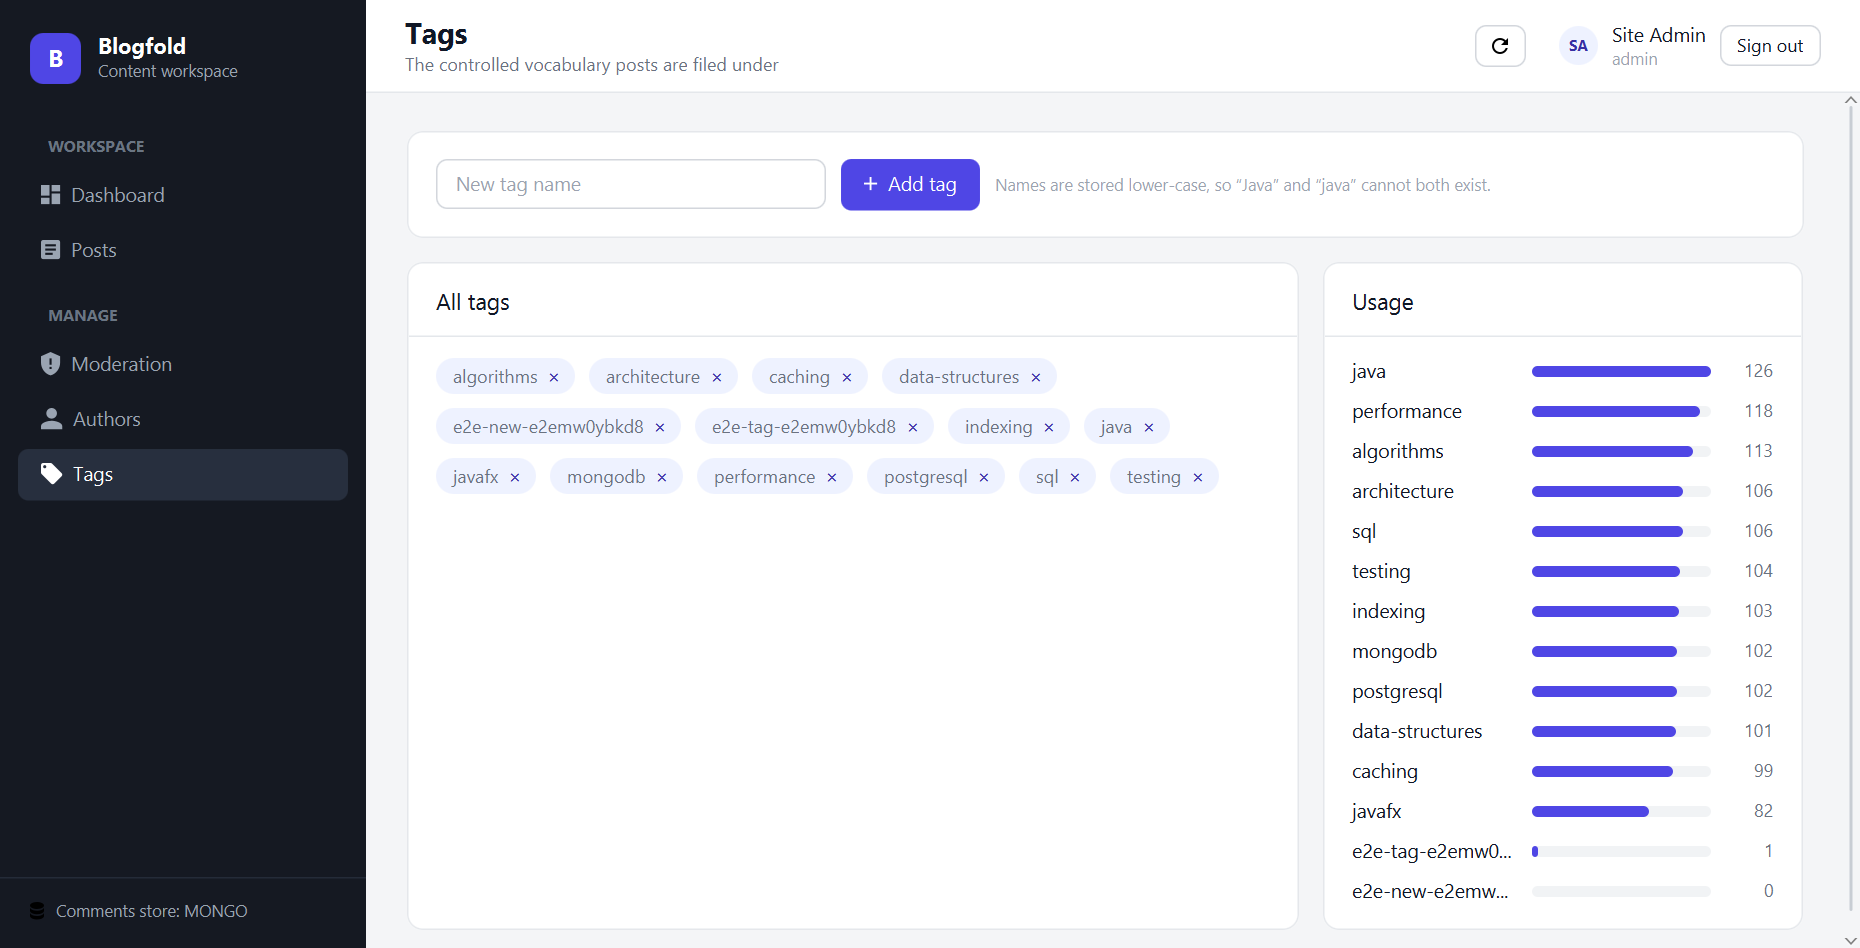
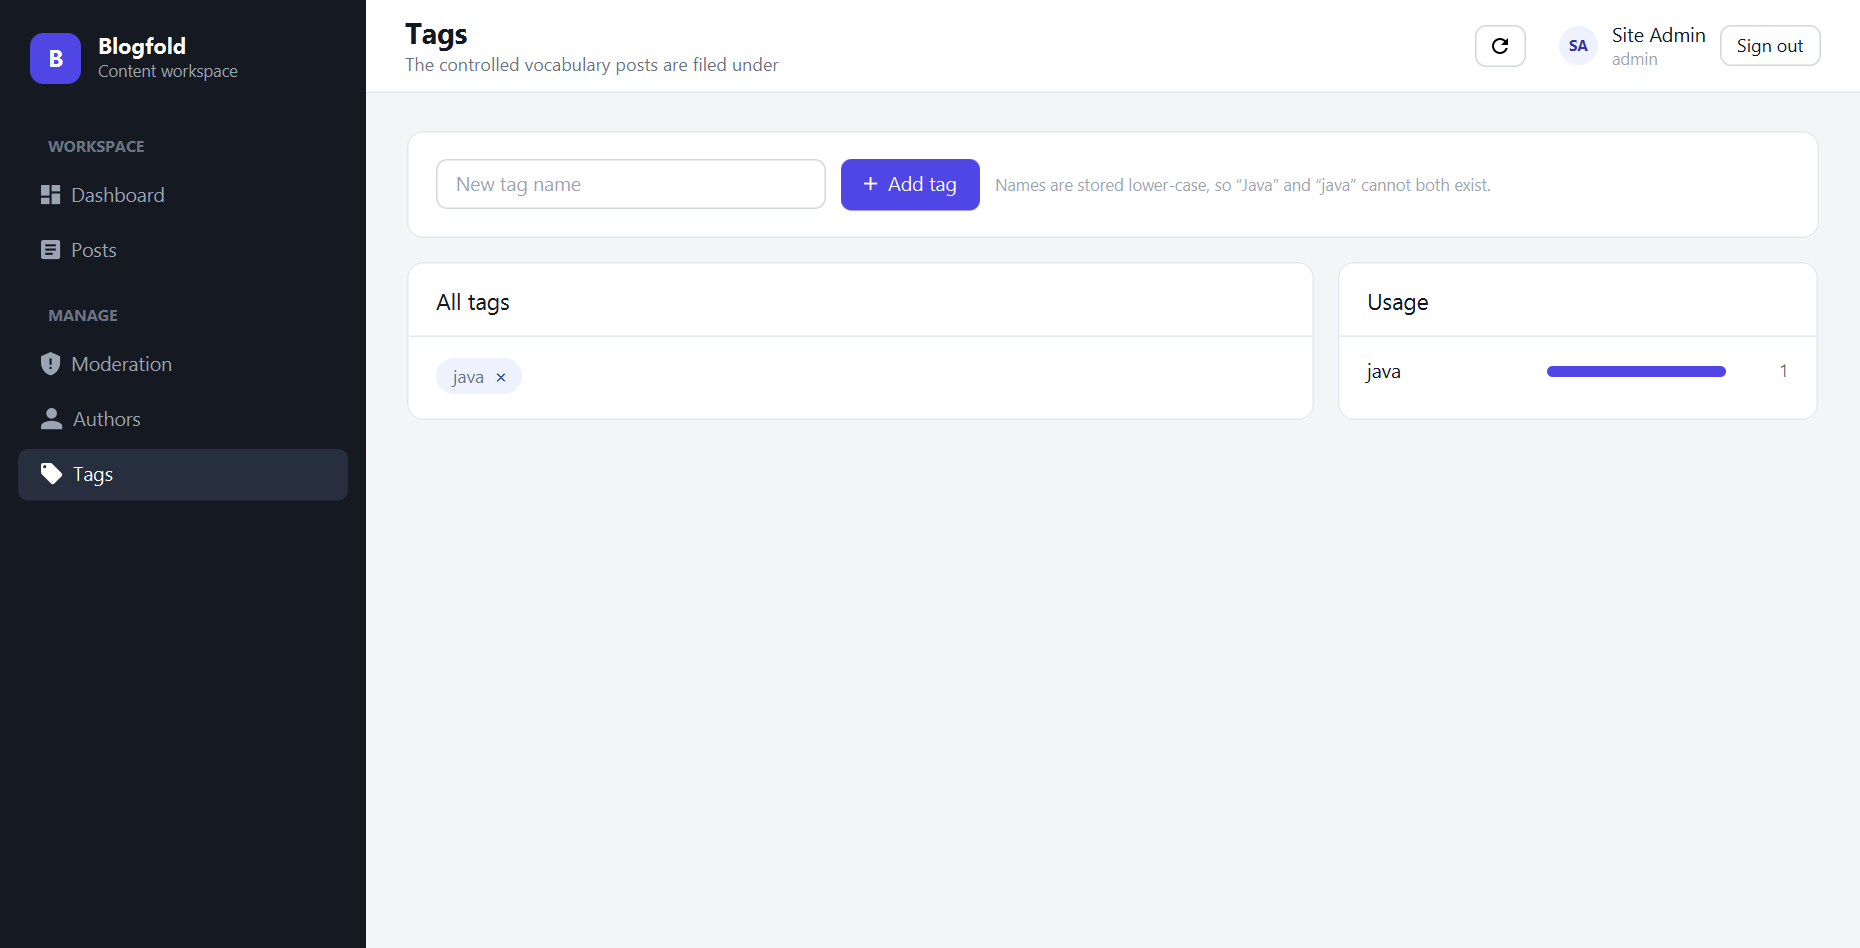
docs: screenshots of the real data, plus the sign in screen
The screenshots in docs/screenshots now show the data entered by hand.
UiCrudE2E writes its own screenshots to target/e2e-screenshots so it no
longer overwrites them.

diff --git a/src/test/java/org/example/bloggingplatformi/ui/UiCrudE2E.java b/src/test/java/org/example/bloggingplatformi/ui/UiCrudE2E.java
@@ -58,13 +58,13 @@ import static org.junit.jupiter.api.Assumptions.assumeTrue;
  * JavaFX app, with PostgreSQL and MongoDB running. Services are only used to
  * check the database afterwards. It opens a window, so it is not part of mvn test.
  * Run: mvn test -Dtest=UiCrudE2E -Dsurefire.failIfNoSpecifiedTests=false
- * Screenshots are saved to docs/screenshots/.
+ * Screenshots are saved to target/e2e-screenshots/, so the real ones in docs/screenshots/ stay.
  */
 @TestInstance(TestInstance.Lifecycle.PER_CLASS)
 @TestMethodOrder(MethodOrderer.OrderAnnotation.class)
 class UiCrudE2E {
 
-    private static final Path SHOTS = Path.of(System.getProperty("e2e.screenshots", "docs/screenshots"));
+    private static final Path SHOTS = Path.of(System.getProperty("e2e.screenshots", "target/e2e-screenshots"));
 
     /** Different on every run, so data left by an old run cannot make a check pass. */
     private final String token = "e2e" + Long.toString(System.currentTimeMillis(), 36);

diff --git a/README.md b/README.md
@@ -32,8 +32,13 @@ before and after.
 
 ## 1. Screenshots
 
-All screenshots show the real application. They are generated by the
-end-to-end UI test (see [Testing](#10-testing)).
+All screenshots show the real application with the data entered by hand through it
+(signed in as the admin).
+
+### Sign in
+The first screen. New bloggers and readers create their account with *Sign up*.
+
+![Sign in](docs/screenshots/00-login.png)
 
 ### Dashboard (analytics)
 Counts of posts, published posts, comments, reviews, accounts and tags; the most
@@ -484,8 +489,9 @@ the result in PostgreSQL and MongoDB. Its 13 steps cover:
 - deactivate and reactivate an account;
 - validation messages on an empty post.
 
-It also takes the screenshots in `docs/screenshots/`. It opens a window, so it is not
-part of the normal `mvn test` run.
+It saves its own screenshots in `target/e2e-screenshots/` (the ones in `docs/screenshots/`
+show the real data and are not overwritten). It opens a window, so it is not part of the
+normal `mvn test` run.
 
 ---
 
